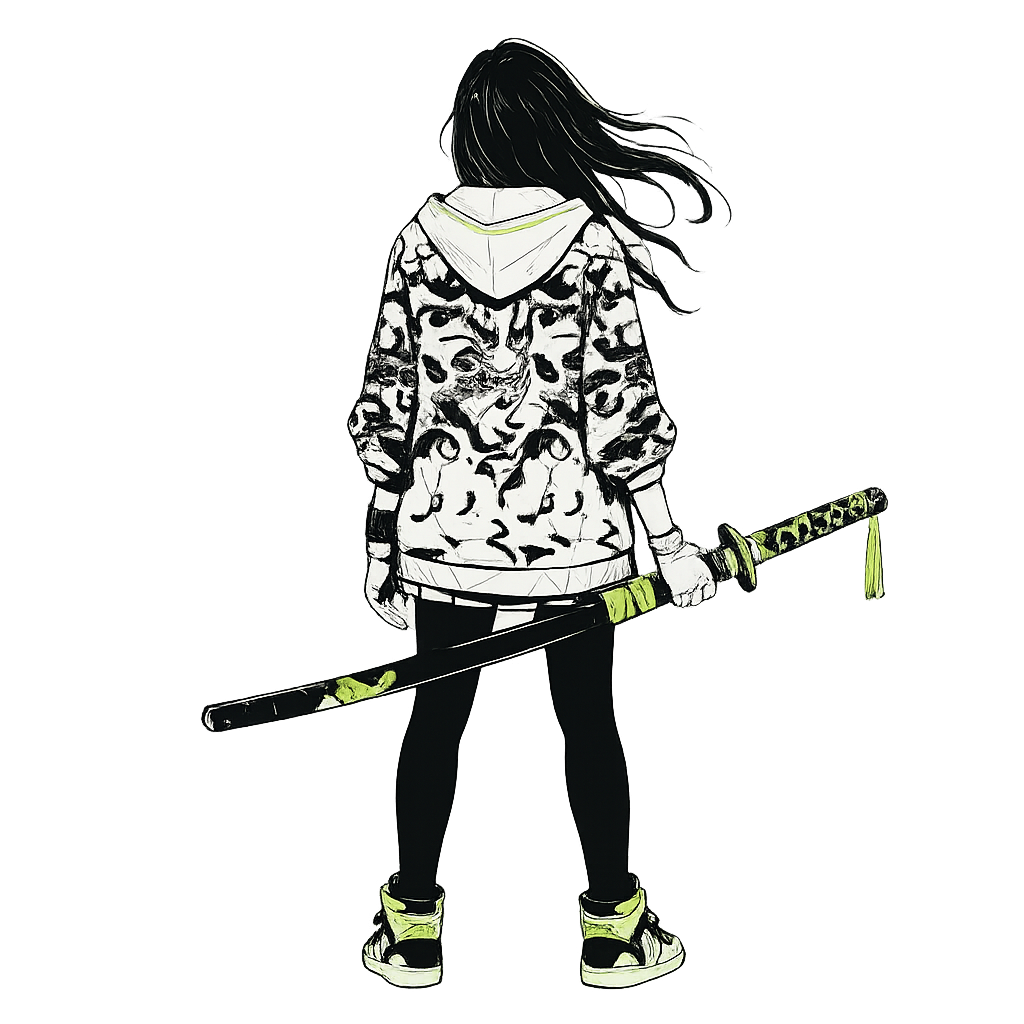
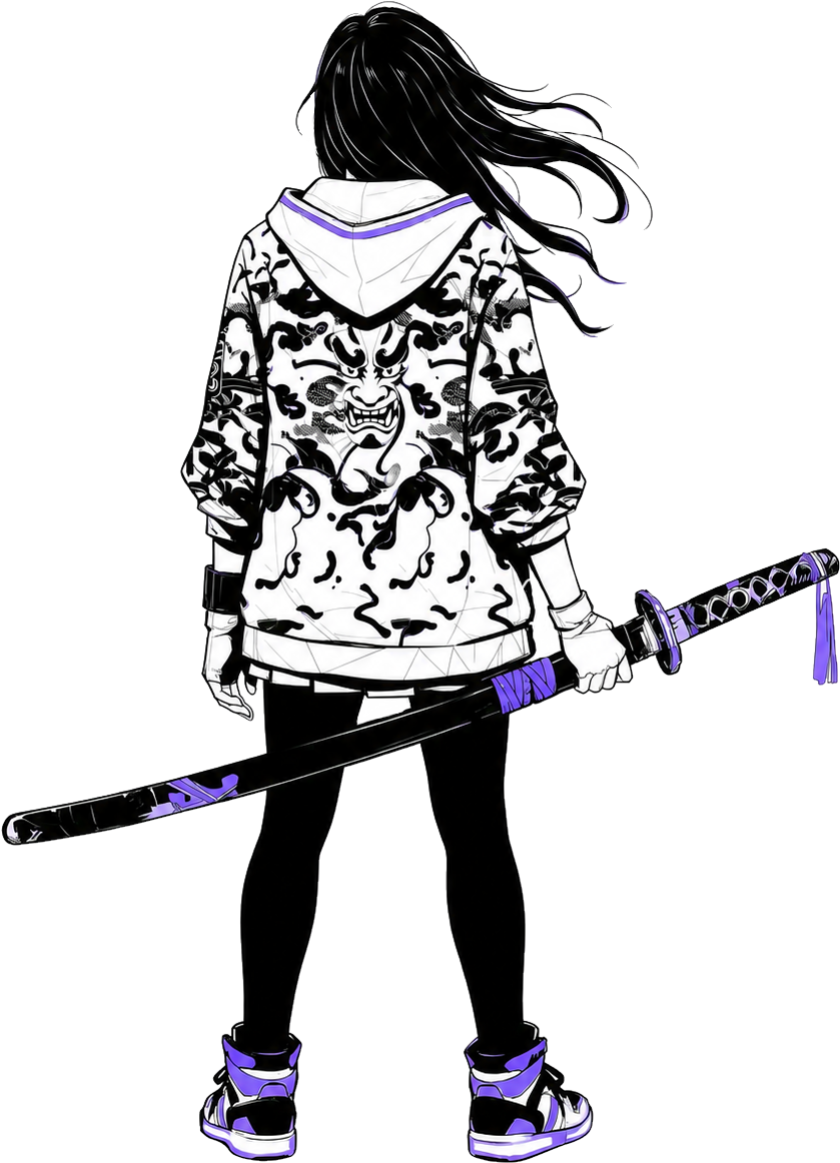
feat(site): hero rebuilt per user mockup — yoshimi figure, half-clipped
User-supplied yoshimi-affinity figure (840x1163, transparent PNG, violet
accents matching DS §6.2 brand). Previous figure backed up at
assets/hero-char-v2-1024.png.

LAYOUT PER MOCKUP:
- H1 size: clamp 42→92px → clamp 64→156px (~70% larger at desktop)
- H1 line-height: 0.92 → 0.86, letter-spacing: -0.035 → -0.045em
  (much tighter — gives the dense brutalist read shown in mockup)
- H1 wrapping: explicit <br> for "Here's / to the / Operators." 3-line
  stack, matches mockup precisely instead of relying on browser wrap
- max-width: 12ch → 11ch (narrower forces consistent 3-line break)
- Hero min-height bumped to 780px to give the larger H1 + character
  room

CHARACTER POSITIONING — half-in-frame:
- Removed from .hero-split grid; now positioned ABSOLUTE relative to
  .hero so she can extend past the .wrap's 1180px max-width
- top: 90px (head sits below the coverbar line)
- right: -220px (her body is pushed 220px past the viewport's right
  edge — about half-clipped, matches mockup)
- bottom: -260px (her foot extends 260px into the method section,
  landing over the "03 EXECUTION ENGINEERING" cell)
- image height: 100% of container (auto-scales to fit the absolute box)
- pointer-events: none, z-index: 5 (sits above section divider and 03
  cell, doesn't block its click target)

HAIR-WAVE TEMPORARILY REMOVED:
Per user direction "don't worry about wavy hair right now" — removed
the .hero-hair overlay img and its CSS. Mask is still in assets/ and
[…]

Changed region(s): [[0.0, 0.0, 1.0, 1.0]]

diff --git a/index.html b/index.html
@@ -41,12 +41,13 @@ nav{position:sticky;top:0;z-index:50;background:color-mix(in srgb,var(--bg) 90%,
 .toggle{font-family:var(--mono);font-size:10px;letter-spacing:0.08em;text-transform:uppercase;border:1px solid var(--violet);background:transparent;color:var(--ink);padding:6px 10px;cursor:pointer;transition:all .2s}
 .toggle:hover{background:var(--violet);color:#fff}
 
-.hero{position:relative;overflow:visible;padding:60px 0 0;z-index:2}
-.hero-split{display:grid;grid-template-columns:1fr 1.1fr;gap:24px;align-items:start;min-height:720px;position:relative}
+.hero{position:relative;overflow:visible;padding:60px 0 0;z-index:2;min-height:780px}
+.hero-split{display:block;position:relative}
+.hero-copy{max-width:760px;position:relative;z-index:3}
 .coverbar{display:flex;gap:34px;font-family:var(--mono);font-size:11px;text-transform:uppercase;letter-spacing:0.08em;color:var(--mut);margin-bottom:40px;flex-wrap:wrap}
 .coverbar b{color:var(--ink);font-weight:500}
-h1{font-weight:900;font-size:clamp(42px,6.6vw,92px);line-height:0.92;letter-spacing:-0.035em;text-transform:uppercase;max-width:12ch;color:var(--ink)}
-.lede{font-family:var(--mono);font-size:14px;line-height:1.7;color:var(--mut);max-width:48ch;margin-top:28px}
+h1{font-weight:900;font-size:clamp(64px,10vw,156px);line-height:0.86;letter-spacing:-0.045em;text-transform:uppercase;max-width:11ch;color:var(--ink)}
+.lede{font-family:var(--mono);font-size:14px;line-height:1.7;color:var(--mut);max-width:48ch;margin-top:32px}
 .lede b{color:var(--ink);font-weight:500}
 .cta-row{display:flex;gap:14px;margin-top:34px;flex-wrap:wrap}
 .btn{display:inline-flex;align-items:center;gap:9px;background:var(--ink);color:var(--bg);font-family:var(--mono);font-size:12px;letter-spacing:0.06em;text-transform:uppercase;padding:14px 22px;transition:transform .15s;border:1px solid var(--ink)}
@@ -54,34 +55,38 @@ h1{font-weight:900;font-size:clamp(42px,6.6vw,92px);line-height:0.92;letter-spac
 .btn-v{background:transparent;color:var(--violet);border:1px solid var(--violet)}
 .btn-v:hover{background:var(--violet);color:#fff}
 
-.char{position:relative;align-self:end;display:flex;align-items:flex-end;justify-content:flex-end;margin-bottom:-220px;z-index:5;pointer-events:none}
-.char img{position:relative;height:1020px;max-width:100%;width:auto;object-fit:contain;filter:saturate(1.02)}
-/* Hair-wave overlay — second copy of the figure, masked to hair pixels only,
-   pushed by SVG displacement filter for a continuous wind effect.
-   Mask file isolates hair geometry; filter id="hair-wind" lives in <svg> at body end. */
-.char .hero-hair{
-  position:absolute;bottom:0;right:0;
-  height:1020px;width:auto;
-  mix-blend-mode:multiply;
-  filter:url(#hair-wind) brightness(1.05) contrast(1.2);
-  -webkit-mask-image:url('/assets/hero-hair-mask.png');
-          mask-image:url('/assets/hero-hair-mask.png');
-  -webkit-mask-size:100% 100%;
-          mask-size:100% 100%;
-  -webkit-mask-mode:alpha;
-          mask-mode:alpha;
-  -webkit-mask-repeat:no-repeat;
-          mask-repeat:no-repeat;
+/* Character anchored to the VIEWPORT'S right edge (not .wrap edge), with
+   negative right offset so she's half-clipped off-screen — matches mockup.
+   Extends below the hero into the method section; her foot lands over the
+   "03 EXECUTION ENGINEERING" cell. */
+.char{
+  position:absolute;
+  top:90px;
+  right:-220px;            /* push half her width past the viewport edge */
+  bottom:-260px;           /* foot extends 260px into method section */
+  width:auto;
+  display:flex;
+  align-items:flex-end;
+  justify-content:flex-end;
+  z-index:5;
   pointer-events:none;
 }
+.char img{
+  position:relative;
+  height:100%;
+  width:auto;
+  max-width:none;
+  object-fit:contain;
+  filter:saturate(1.02);
+}
 body.dark .char{display:none}  /* light-only until white edge is feathered against dark */
-body.dark .hero-split{grid-template-columns:1fr}
-/* Below the breakpoint we collapse to a single column and contain the
-   character to a reasonable height so she doesn't overflow chaotically. */
+/* Below the breakpoint, contain the character and put her below the copy
+   in normal flow (no clipping chaos on narrow screens). */
 @media(max-width:860px){
-  .char{margin-bottom:0;min-height:360px;justify-content:center}
-  .char img{height:360px}
-  .hero{padding-bottom:30px}
+  .char{position:relative;top:auto;right:auto;bottom:auto;min-height:360px;justify-content:center;margin-top:30px}
+  .char img{height:380px}
+  .hero{padding-bottom:30px;min-height:auto}
+  h1{font-size:clamp(48px,12vw,80px)}
 }
 
 section{padding:80px 0;border-top:1px solid var(--ink)}
@@ -176,20 +181,19 @@ footer{background:var(--dark);color:#7E7E76;border:none;padding:26px 0}
   <span class="plus" style="top:200px;right:30px">+</span>
   <div class="wrap">
     <div class="hero-split">
-      <div>
+      <div class="hero-copy">
         <div class="coverbar"><span>Coverage / <b>Full-stack GTM</b></span><span>Stage / <b>Pre-seed → IPO</b></span><span>Method / <b>Governed ↑</b></span></div>
-        <h1>Here's to the Operators.</h1>
+        <h1>Here's<br>to the<br>Operators.</h1>
         <p class="lede">AI-first GTM engineering from pre-seed to pre-IPO. <b>Operator-run. Method-governed. Engine-supported.</b></p>
         <div class="cta-row">
           <a href="/#cta" class="btn">Book a Briefing →</a>
           <a href="/doctrine/" class="btn btn-v">Read the Doctrine</a>
         </div>
       </div>
-      <div class="char">
-        <img src="/assets/hero-char.png" alt="Operator">
-        <img class="hero-hair" src="/assets/hero-char.png" alt="" aria-hidden="true">
-      </div>
     </div>
+  </div>
+  <div class="char">
+    <img src="/assets/hero-char.png" alt="Operator">
   </div>
 </header>
 